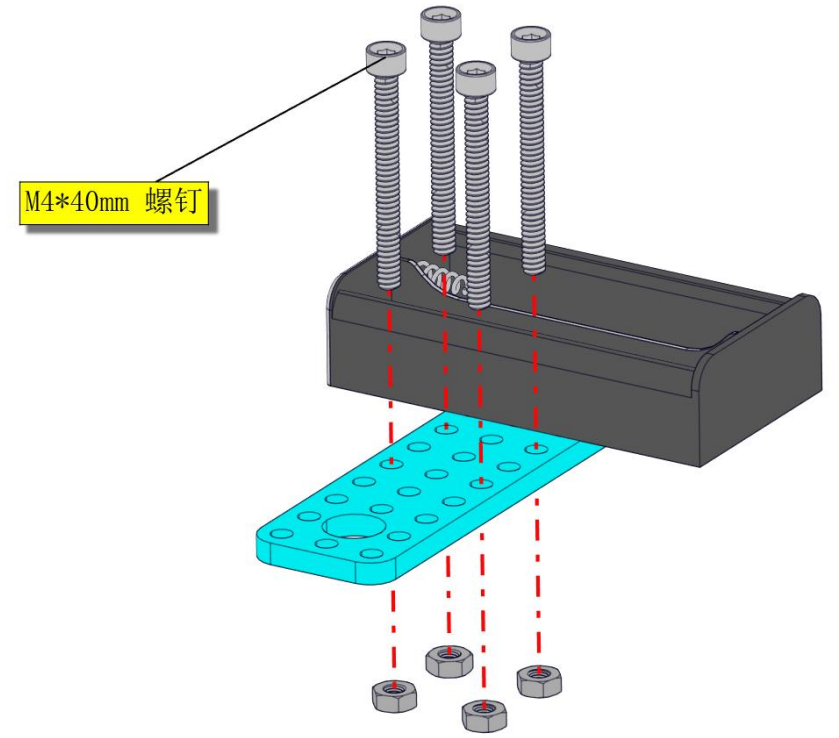
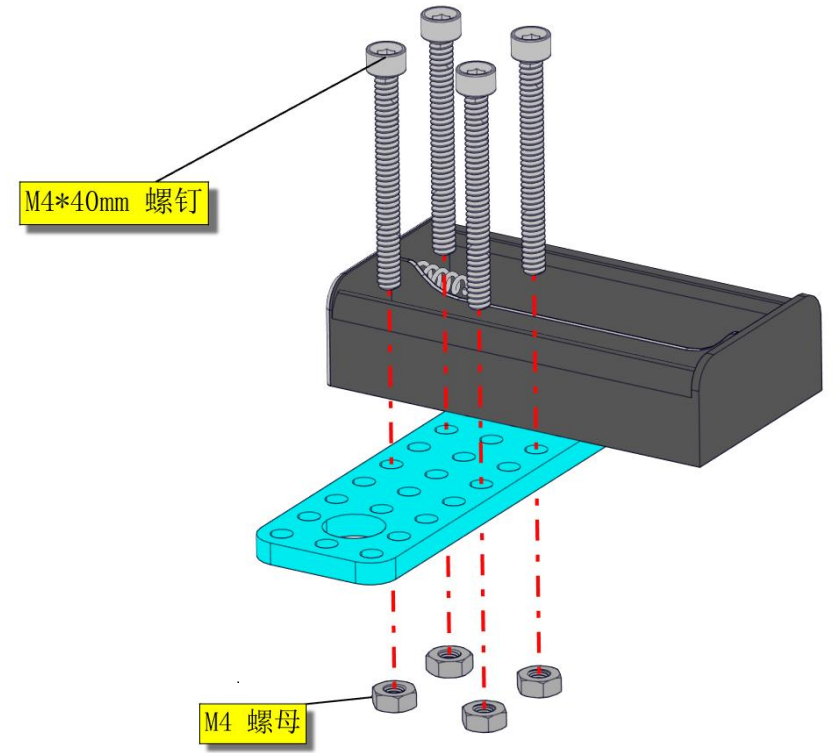
V01-2026-09-20

diff --git a/docs/产品介绍.md b/docs/产品介绍.md
@@ -68,7 +68,7 @@
 | 34   | M4 镀镍 自锁螺母                                             | 2        | ![image-20260615114214510](media/image-20260615114214510.png) |
 | 35   | M2\*10MM 圆头 螺钉                                           | 6        | ![image39](media/1dbef05b374b370793ae375213bc2b35.png)       |
 | 36   | M3\*12MM 圆头 螺钉                                           | 12       | ![image40](media/7e4e5d1f5a217469fc78b621f1e46cae.png)       |
-| 37   | M4 镀镍 螺母                                                 | 12       | ![image41](media/e775cb5b322f268e31c19132a2c64167.png)       |
+| 37   | M4 镀镍 螺母                                                 | 22       | ![image41](media/e775cb5b322f268e31c19132a2c64167.png)       |
 | 38   | M2 镀镍 螺母                                                 | 10       | ![image42](media/6f570c0bc30c315b93b00ec319f27897.png)       |
 | 39   | HX-2.54 3P 双头连接线                                        | 3        | ![image43](media/6af8be4885d876278c7512fa5ffb3a2b.png)       |
 | 40   | HX-2.54 4P 双头连接线                                        | 1        | ![image44](media/23bb9ca98f3fd872f2e03a844e17d5af.png)       |

diff --git a/docs/坦克机器人安装.md b/docs/坦克机器人安装.md
@@ -24,8 +24,6 @@
 
 ![KE0194_03](./media/QQ22.png)
 
-QQ24
-
 **安装2**
 
 安装所需零件
